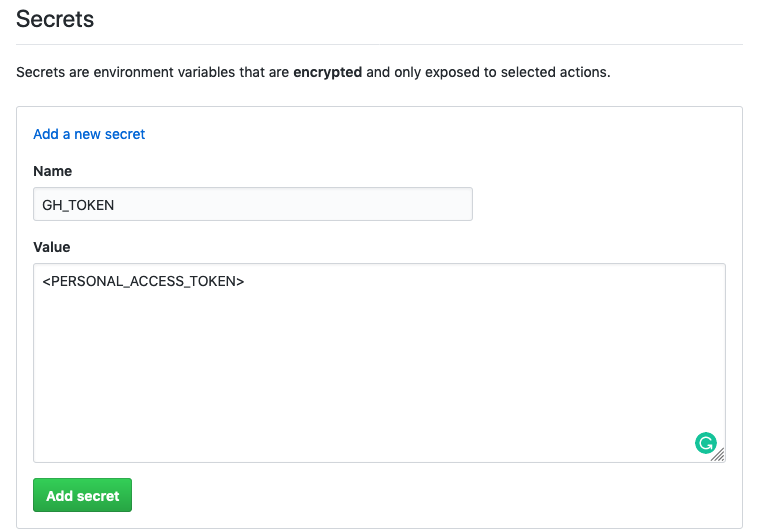
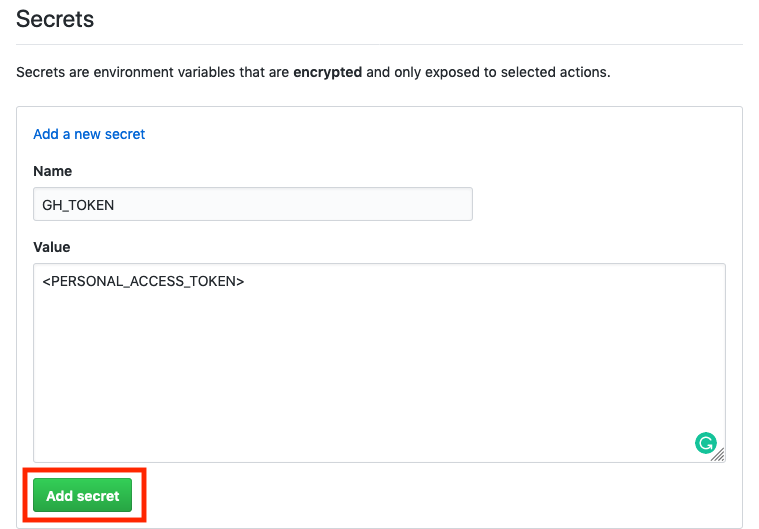
github-actions: changed content, added thumbnail

Changed region(s): [[0.0303, 0.8771, 0.2121, 0.9981]]

diff --git a/blog/2019-11-angular-cli-ghpages-github-actions/README.md b/blog/2019-11-angular-cli-ghpages-github-actions/README.md
@@ -13,11 +13,11 @@ keywords:
   - Github
   - Github Actions
 language: en
-thumbnail: TODO.jpg
+thumbnail: spacex-unsplash.jpg
 hidden: true
 ---
 
-**Here comes an exciting, bold sentence that makes the reader curious about the whole text.**
+**We all know that `angular-cli-ghpages` made it real smooth to deploy our Angular app on `Github Pages`. And `Github Actions` beta is already out and will be generally available soon. In this article, we will see, how to utilize `angular-cli-ghpages` with Github Actions.**
 
 - [Introduction](/blog/2019-11-angular-cli-ghpages-github-actions#introduction)
 - [Prerequisites](/blog/2019-11-angular-cli-ghpages-github-actions#prerequisites)
@@ -28,43 +28,65 @@ hidden: true
 
 ## Introduction
 
-As Github has introduced [Github Actions](https://github.com/features/actions), I would prefer to run all my CI tasks in it only, rather than going to some other CI providers. This guide is aimed to help out developers, who want to deploy their Angular app in Github Page using [angular-cli-pages](https://github.com/angular-schule/angular-cli-ghpages).
+### angular-cli-ghpages
+
+    Deploy your Angular app to GitHub pages directly from the Angular CLI! 🚀
+
+All it takes is just two commands in terminal to deploy your Angular app on Github Pages:
+
+    ```bash
+    ng add angular-cli-ghpages
+    ng deploy
+    ```
+
+Checkout there [repo](https://github.com/angular-schule/angular-cli-ghpages#angular-cli-ghpages) for more information.
+
+### Github Actions
+
+    GitHub Actions makes it easy to automate all your software workflows, now with world-class CI/CD. Build, test, and deploy your code right from GitHub. Make code reviews, branch management, and issue triaging work the way you want.
+
+You will need to create Actions YAML file and Github will take care of the rest.
+
+Take a look at it's [official documentation](https://help.github.com/en/actions/automating-your-workflow-with-github-actions) for more.
 
 ## Prerequisites
 
-1. You've signed up for GitHub Actions and taken a look at the documentation for the new [GitHub Actions](https://github.com/features/actions) format and/or understand the purpose of GitHub Actions.
-2. You've written some form of YML code before and/or have minimal knowledge of the syntax
-3. You already have a working Angular app that can be deployed to GitHub Pages
-4. You have already added **angular-cli-ghpages** in your project. If not:
+1. You've signed up for GitHub Actions. [Learn more](https://github.com/features/actions).
+2. Take a look at the documentation for:
+   1. [GitHub Actions](https://github.com/features/actions)
+   2. [Github Pages](https://pages.github.com/)
+3. Not required, but it would be great if you've written some form of YML code before and have minimal knowledge of the syntax.
+4. You have a working Angular app. If not, you can [quickly set it up](https://angular.io/guide/setup-local).
+5. Your Angular app is pushed on Github.
+6. You have added **angular-cli-ghpages** in your project. If not:
    - Please checkout [Quick Start Guide](https://github.com/angular-schule/angular-cli-ghpages#-quick-start-local-development-) 
    - Or simply run `ng add angular-cli-ghpages` in your project.
 
 ## Getting started
 
-Please ensure that you've read the prerequisites section before continuing with this section.
+Please ensure that you've read the [prerequisites](/blog/2019-11-angular-cli-ghpages-github-actions#prerequisites) section before continuing with this section. We are assuming that you have a Angular app, which is pushed on Github and has `angular-cli-ghpages` added.
 
 ### Setup Tokens
 
-1. Create a [Personal Access Token with repo access](https://help.github.com/en/articles/creating-a-personal-access-token-for-the-command-line) (POA) and copy the token.
+1. Create a [Personal Access Token with repo access](https://help.github.com/en/articles/creating-a-personal-access-token-for-the-command-line) (POA) and copy the token and store it some where safe.
    - Make sure it has this access:
   
         ![repo access](./repo-access.png)
-2. Open up your Github repo.
-3. Go to **Settings** > **Secrets** and click on **Add a new secret** link.
+2. Open up your Angular app's Github repo.
+3. Go to **Settings** > **Secrets** and click on **Add a new secret**.
 
     ![add new secret](./add-new-secret.png)
-4. Create a secret with name `GH_TOKEN` and paste your POA, which you copied in step 1, in value.
+4. Create a secret with name `GH_TOKEN` and paste your POA (which you copied / stored in step 1) in value. Make sure to click on green **Add secret** button to save it.
 
     ![secret name and value](./secret-token-value.png)
 
 ### Setup Github Action Flow
 
-1. Open up your Github repo.
-2. Go to **Actions** amd click on **Set up workflow yourself**.
+1. Now, in your repo, go to **Actions** and click on **Set up workflow yourself**.
 
     ![setup workflow](./setup-workflow.png)
 
-3. A New File editor will open, keep the file name (e.g. *main.yml*) as it is, simply replace all content to below:
+2. A New File editor will open, keep the file name (e.g. *main.yml*) as it is, simply replace all content to below:
 
     ```yml
     name: Node CI
@@ -86,16 +108,17 @@ Please ensure that you've read the prerequisites section before continuing with 
             npm install
             npm run lint
             ###
-            # You can comment below 2 test scripts, if you haven't [configured CLI for CI testing in Chrome](https://angular.io/guide/testing#configure-cli-for-ci-testing-in-chrome)
+            # You can un-comment below 2 test scripts, if you have made respective changes mentioned at https://angular.io/guide/testing#configure-cli-for-ci-testing-in-chrome
             ###
-            npm test -- --no-watch --no-progress --browsers=ChromeHeadlessCI
-            npm run e2e -- --protractor-config=e2e/protractor-ci.conf.js
+            # npm test -- --no-watch --no-progress --browsers=ChromeHeadlessCI
+            # npm run e2e -- --protractor-config=e2e/protractor-ci.conf.js
             npm run deploy -- --name="<YOUR_GITHUB_USERNAME>" --email=<YOUR_GITHUB_USER_EMAIL_ADDRESS>
             env:
             CI: true
             GH_TOKEN: ${{ secrets.GH_TOKEN }}
     ```
 
+3. Now, if you want Github Actions CI/CD to perform tests, you will need to [make some configurations](https://angular.io/guide/testing#configure-cli-for-ci-testing-in-chrome) in your Angular app. And then you can un-comment the `npm test ...` and `npm run e2e ...` commands in above Actions YAML file.
 4. Make sure to replace **<YOUR_GITHUB_USERNAME>** and **<YOUR_GITHUB_USER_EMAIL_ADDRESS>** with correct values in above snippet.
 5. You can also control when your workflows are triggered:
    - It can be helpful to not have your workflows run on every push to every branch in the repo.
@@ -128,15 +151,21 @@ Please ensure that you've read the prerequisites section before continuing with 
 
    - For more information see [Events that trigger workflows](https://help.github.com/articles/events-that-trigger-workflows) and [Workflow syntax for GitHub Actions](https://help.github.com/articles/workflow-syntax-for-github-actions#on).
 
-6. Commit and Push to add the workflow file.
-7. Done.
+6. Then, click on **Start commit**, add message and description if you like and click on **Commit new file**.
+
+    ![start commit](./start-commit.png)
+7. Done ✅.
+
+Now next time when you push your changes to Github, Github Actions will run the workflow we created and it will deploy your updated app on Github Pages.
 
 ## Summary
 
-<hr>
+I hope that now you know how to setup `angular-cli-ghpages` with Github Actions. Please checkout [angular-cli-ghpages options](https://github.com/angular-schule/angular-cli-ghpages/#options) for more options to deploy, like: `--repo <URL>` to deploy your app to different repo's Github Pages. And it's not just CI/CD setup, there are lot many things we can do in [Github Actions](https://github.com/features/actions). Also checkout [Github Marketplace for Actions](https://github.com/marketplace?type=actions) to see more workflows.
 
 ## Thank you
 
-Special thanks go to
+Special thanks go to [Johannes Hoppe](https://twitter.com/fmalcher01) for giving me an opprtunity to write this article.
+
+<small>**Header image:** Photo by [SpaceX](https://unsplash.com/@spacex?utm_source=unsplash&utm_medium=referral&utm_content=creditCopyText) on [Unsplash](https://unsplash.com/s/photos/launch?utm_source=unsplash&utm_medium=referral&utm_content=creditCopyText)</small>
 
 ....
